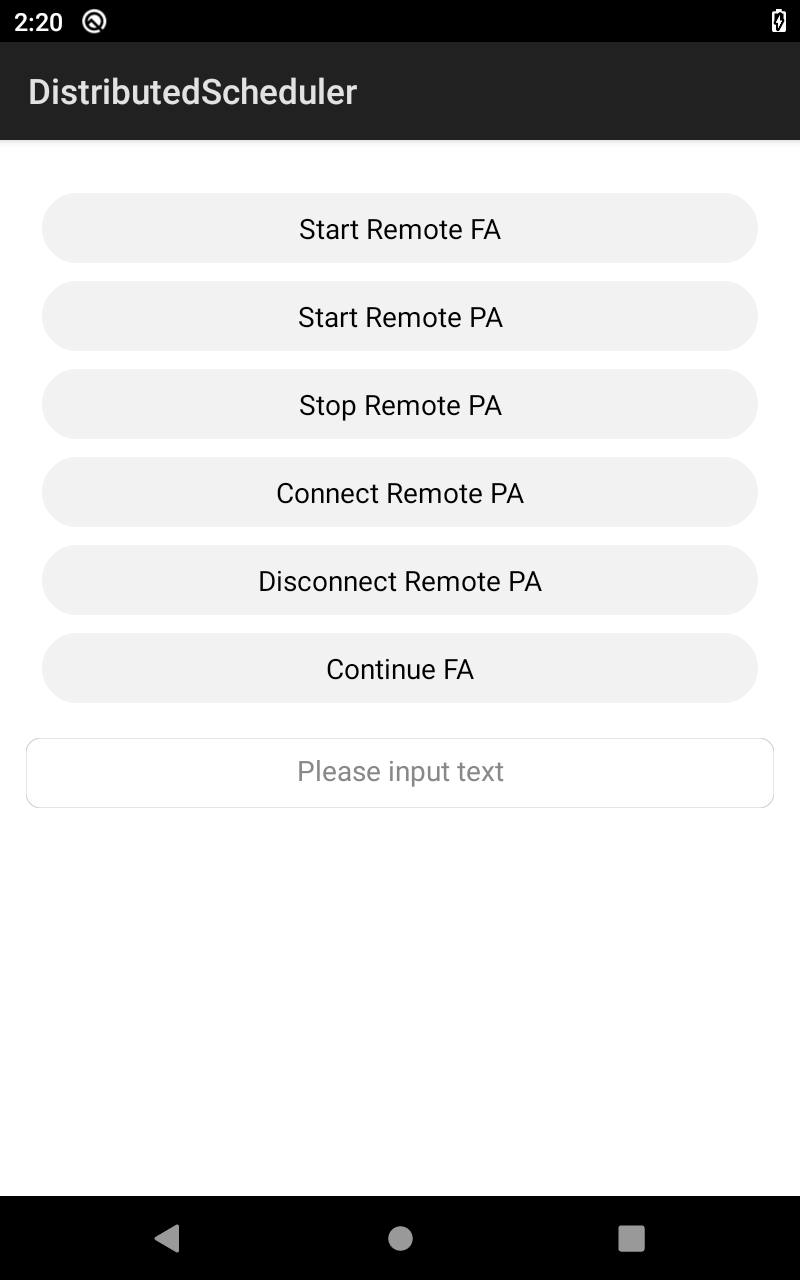
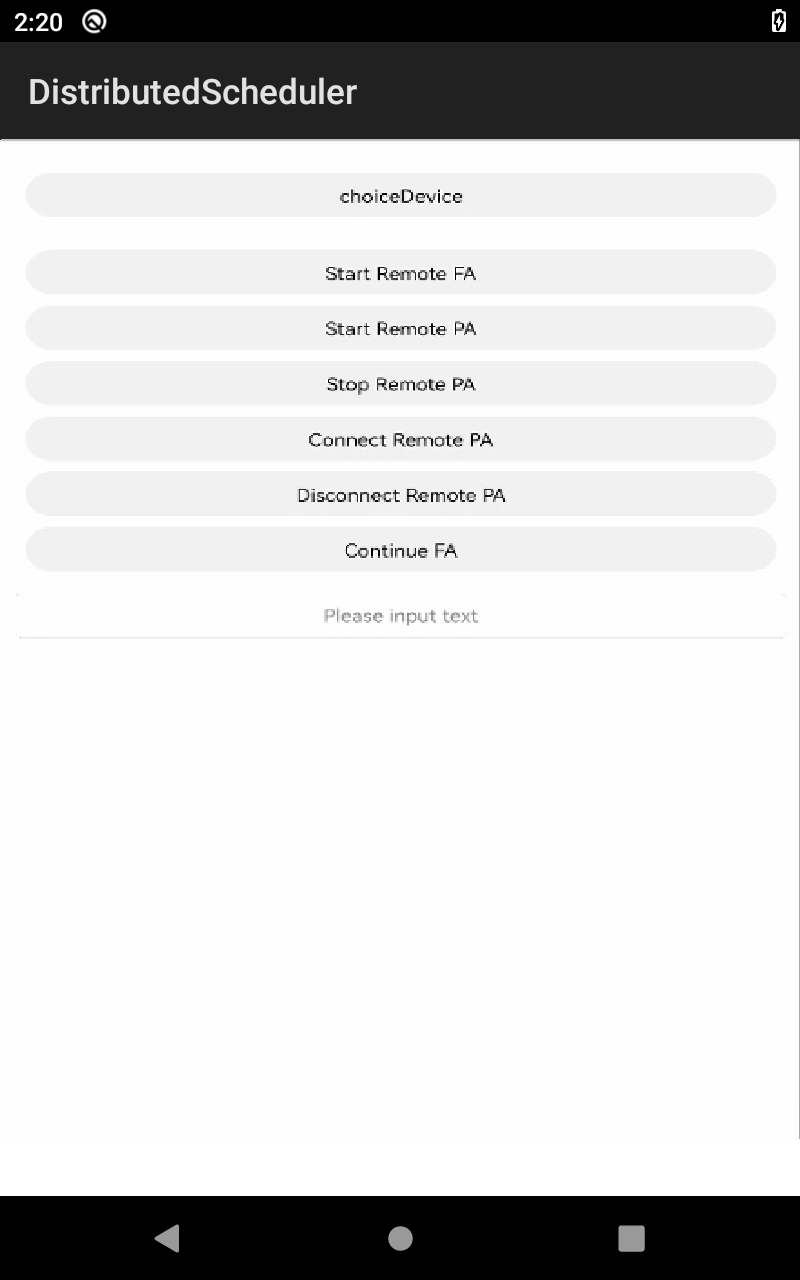
fix bug for distributedscheduler

Changed region(s): [[0.3125, 0.125, 0.6875, 0.5312], [0.375, 0.5938, 0.625, 0.625]]

diff --git a/ability/DistributedScheduler/entry/src/main/java/ohos/samples/distributedscheduler/slice/MainAbilitySlice.java b/ability/DistributedScheduler/entry/src/main/java/ohos/samples/distributedscheduler/slice/MainAbilitySlice.java
@@ -133,19 +133,19 @@ public class MainAbilitySlice extends AbilitySlice implements IAbilityContinuati
         }
         String[] items = new String[infoList.size()];
         int i = 0;
-        for (DeviceInfo info:infoList) {
-            items[i] = info.getDeviceName();
+        for (DeviceInfo info : infoList) {
+            items[i] = info.getDeviceType() + ", " + info.getDeviceName();
         }
         ListDialog listDialog = new ListDialog(getContext());
         listDialog.setItems(items);
         listDialog.setTitleText("Choice a device");
-        listDialog.setSize(DIALOG_WIDTH,MATCH_CONTENT);
+        listDialog.setSize(DIALOG_WIDTH, MATCH_CONTENT);
         listDialog.setAutoClosable(true);
-        listDialog.setOnSingleSelectListener((IDialog dailog, int position)->{
+        listDialog.setOnSingleSelectListener((IDialog dailog, int position) -> {
             selectDeviceId = infoList.get(position).getDeviceId();
             try {
                 HiLog.info(LABEL_LOG, "initDistributedEnvironmentClick begin ");
-                DeviceManager.initDistributedEnvironment(selectDeviceId,iInitCallback);
+                DeviceManager.initDistributedEnvironment(selectDeviceId, iInitCallback);
                 dailog.destroy();
             } catch (RemoteException e) {
                 HiLog.info(LABEL_LOG, "RemoteException happen");
